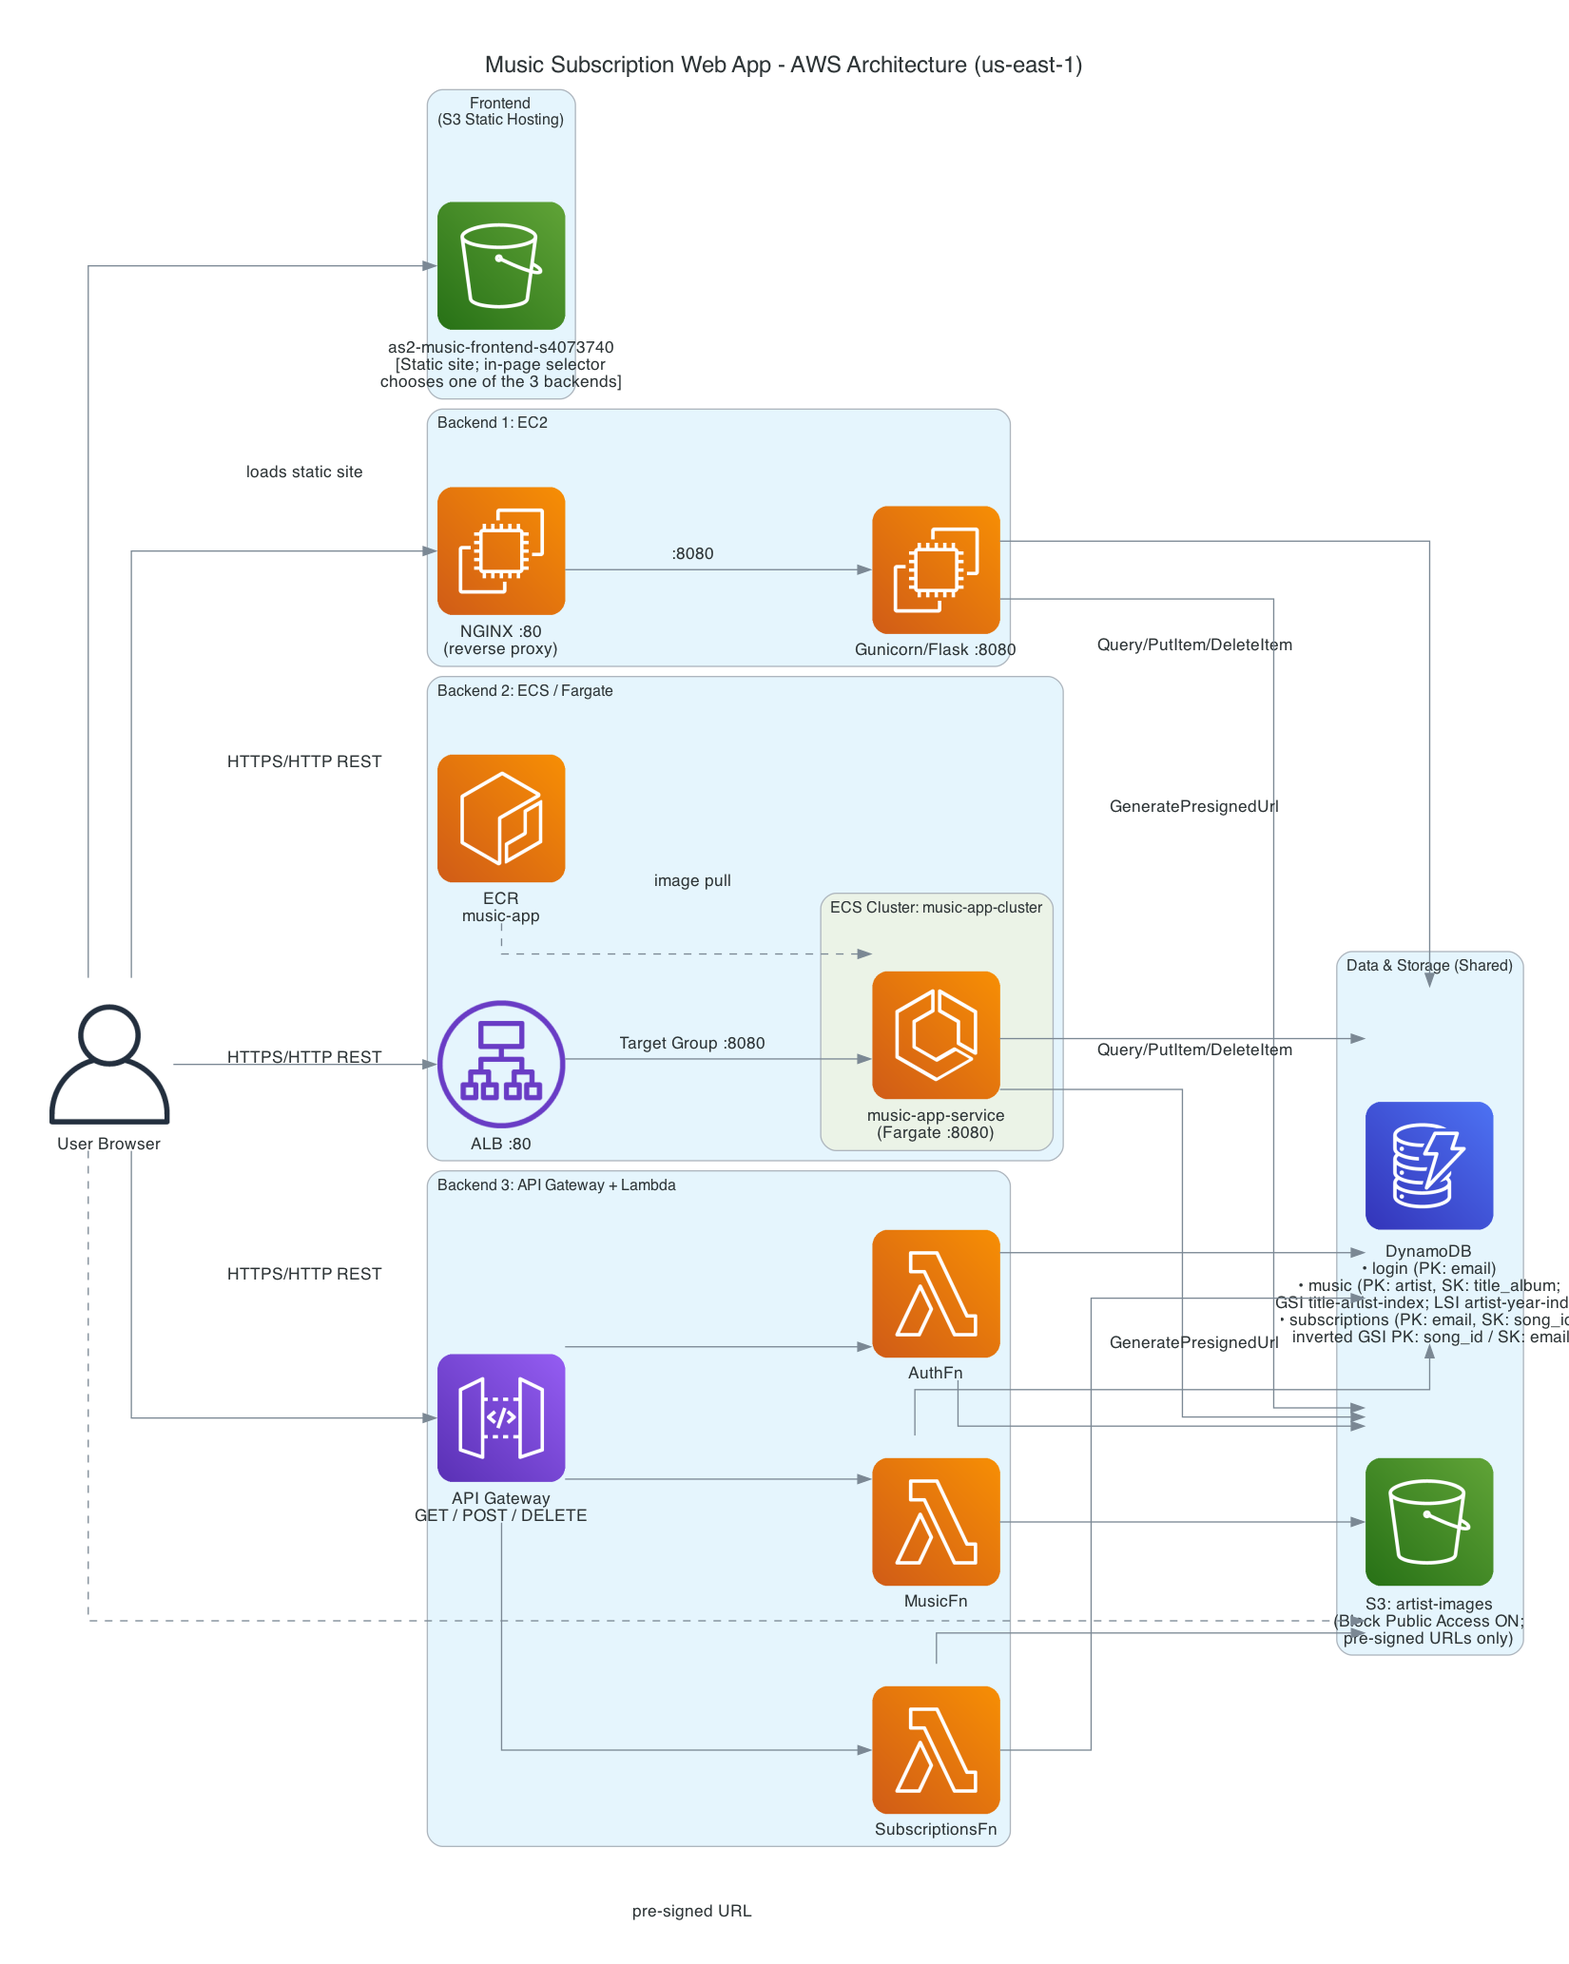
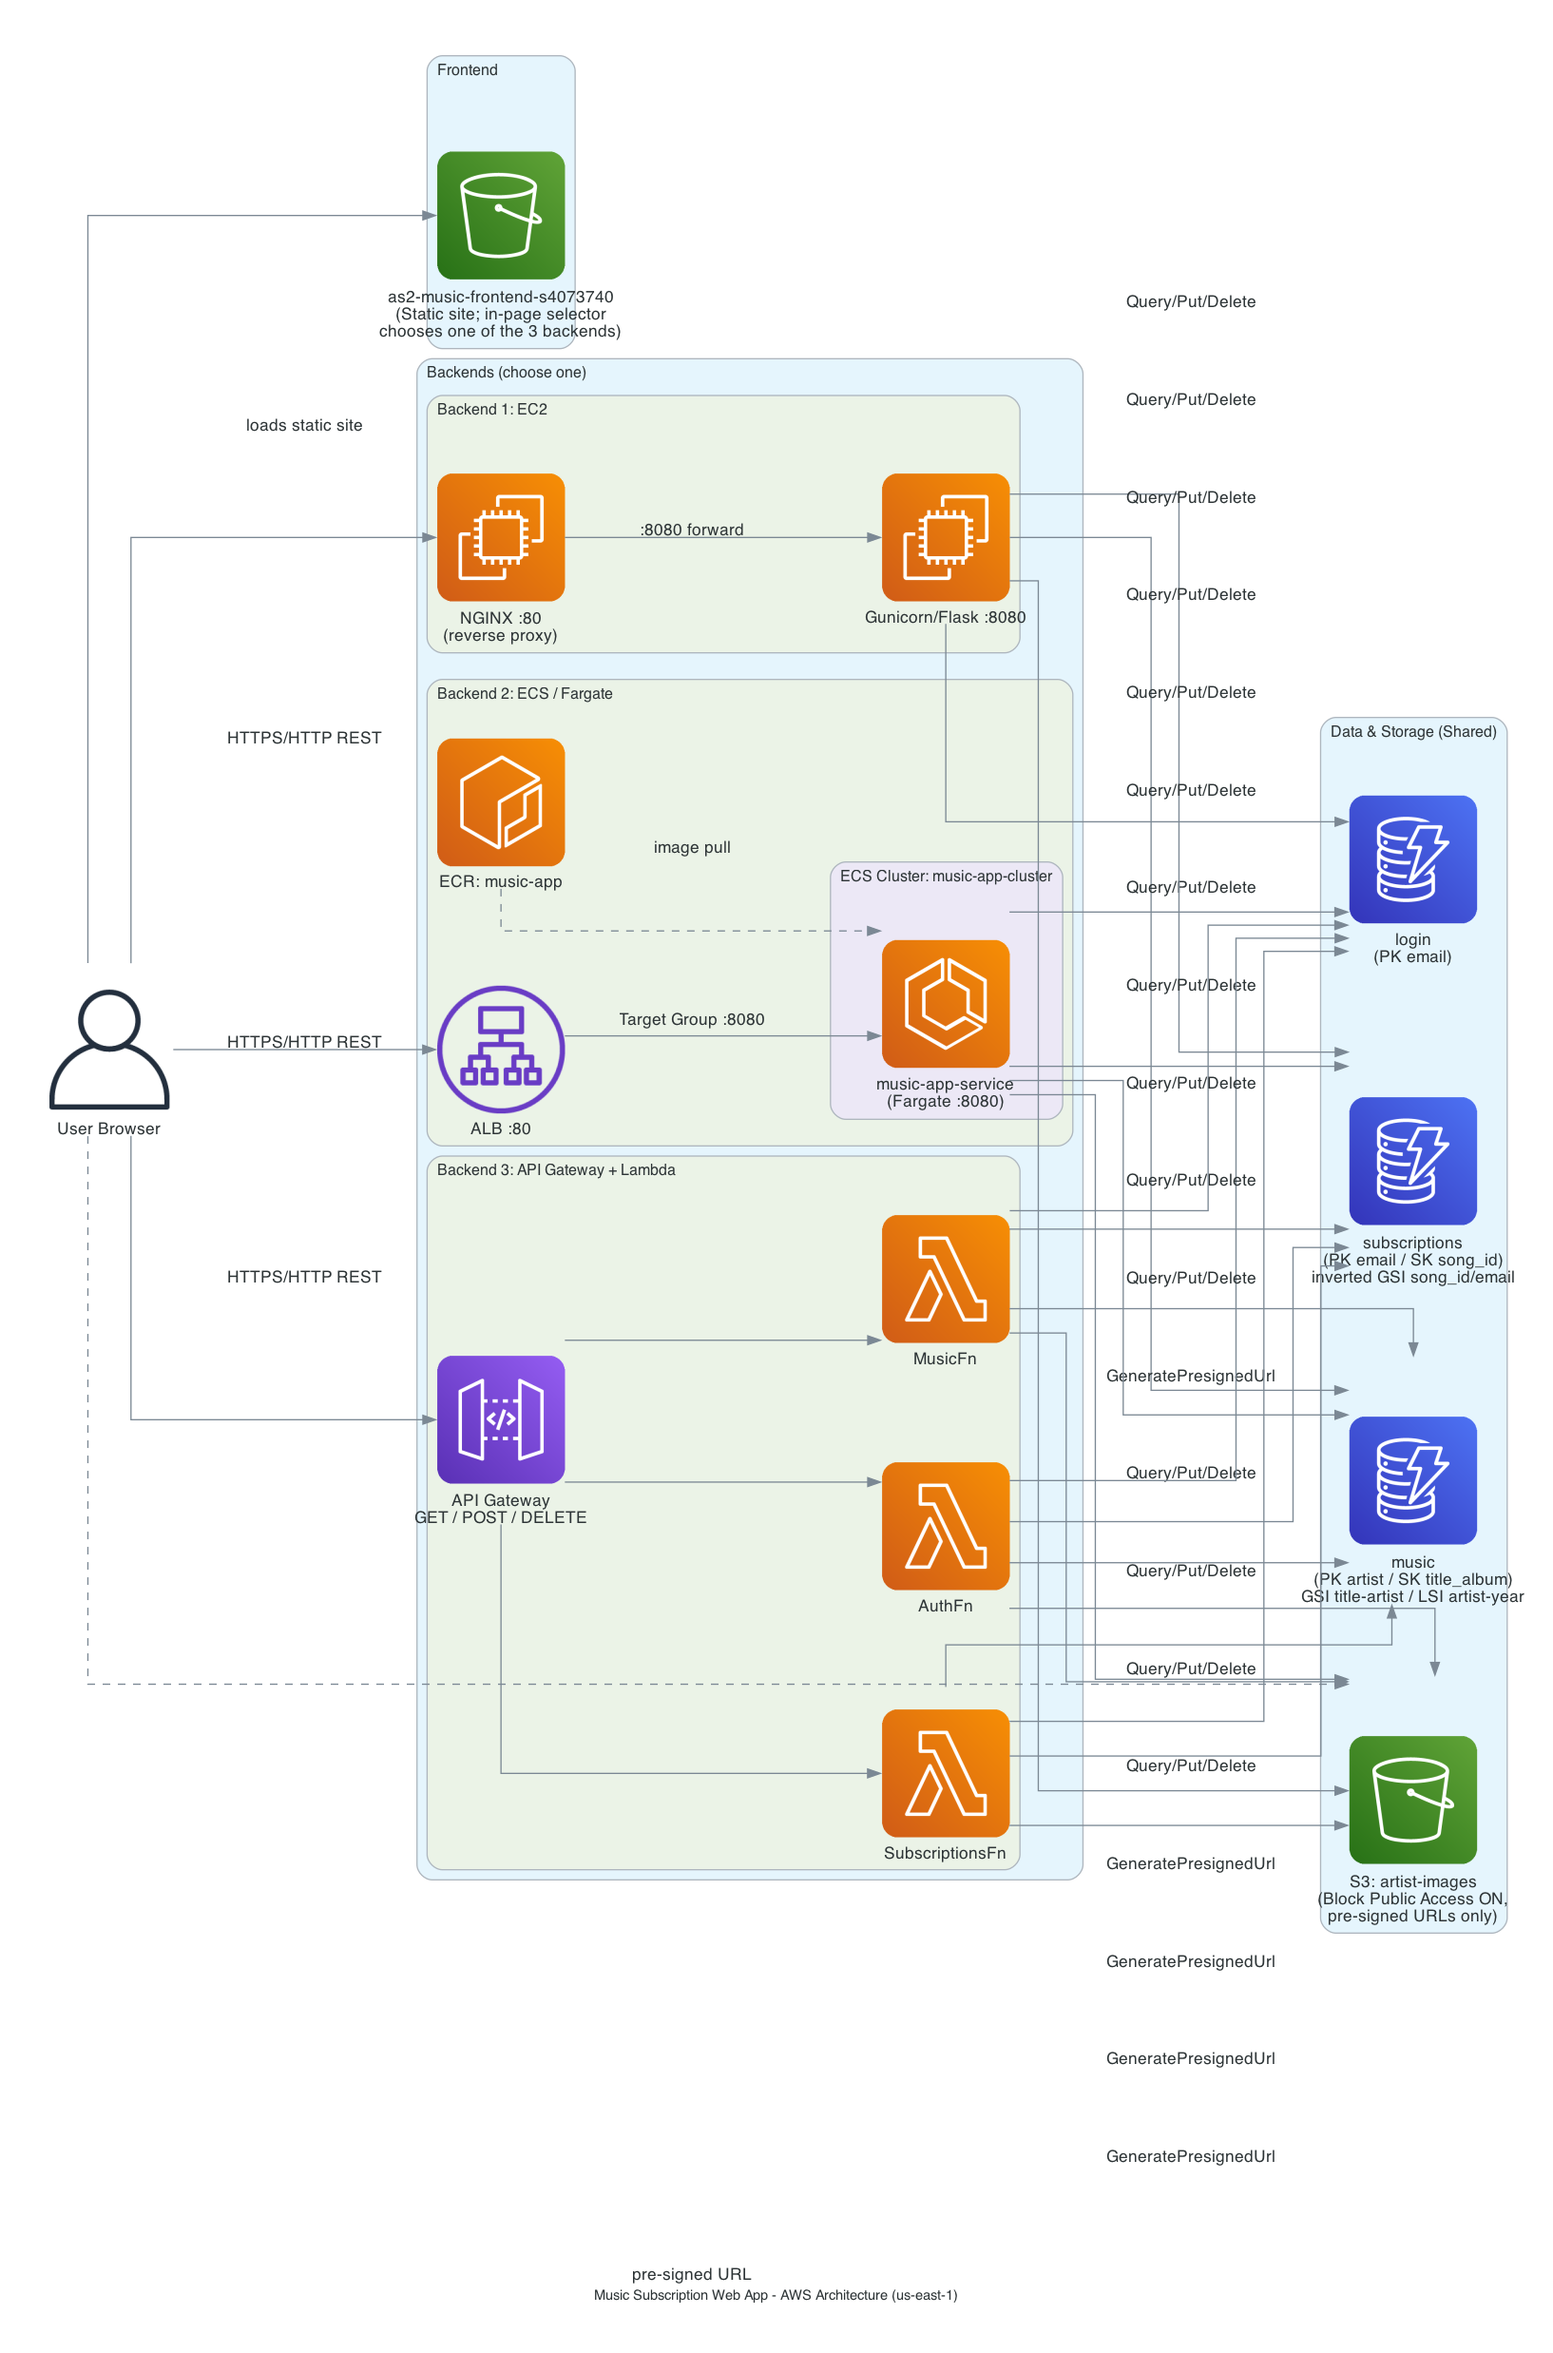
updated arch

diff --git a/architecture.py b/architecture.py
@@ -2,78 +2,77 @@
 Music Subscription Web App - AWS Architecture (us-east-1)
 
 Request Flow:
-1. User Browser loads static site from S3 (as2-music-frontend-s4073740).
-2. In-page selector picks one of three backends:
-   a. Backend 1 (EC2): Browser -> EC2 NGINX :80 -> Gunicorn/Flask :8080
-   b. Backend 2 (ECS): Browser -> ALB :80 -> Target Group :8080 -> Fargate task :8080
-      (Fargate pulls container image from ECR)
-   c. Backend 3 (Serverless): Browser -> API Gateway (REST) -> Lambda (AuthFn / MusicFn / SubscriptionsFn)
-3. All three backends read/write DynamoDB tables: login, music, subscriptions.
-4. All three backends call S3 (artist images) to generate pre-signed URLs.
-5. Browser fetches artist images directly from S3 via pre-signed URL.
-6. IAM LabRole is assumed by EC2 instance profile, ECS task role, and Lambda execution role.
+1.  User Browser loads static site from S3 (as2-music-frontend-s4073740).
+2.  In-page selector picks one of three backends:
+    a. Backend 1 (EC2):        Browser -> EC2 NGINX :80 -> Gunicorn/Flask :8080
+    b. Backend 2 (ECS/Fargate):Browser -> ALB :80 -> Target Group :8080 -> Fargate task :8080
+                                Fargate pulls container image from ECR.
+    c. Backend 3 (Serverless): Browser -> API Gateway (REST GET/POST/DELETE)
+                                       -> AuthFn / MusicFn / SubscriptionsFn (Lambda)
+3.  All three backends read/write DynamoDB tables: login, music, subscriptions.
+4.  All three backends call S3 artist-images to generate pre-signed URLs.
+5.  Browser fetches artist images directly from S3 via pre-signed URL.
+6.  IAM LabRole assumed by EC2 instance profile, ECS task role, Lambda execution role.
 """
 
 from diagrams import Diagram, Cluster, Edge
-from diagrams.aws.compute import EC2, ECS, ElasticContainerServiceService, Lambda
+from diagrams.aws.compute import EC2, ECS, Lambda, ECR
 from diagrams.aws.database import Dynamodb
 from diagrams.aws.network import ALB, APIGateway
 from diagrams.aws.storage import S3
-from diagrams.aws.compute import ECR
 from diagrams.onprem.client import User
 
 graph_attr = {
-    "fontsize": "18",
-    "label": "Music Subscription Web App - AWS Architecture (us-east-1)",
-    "labelloc": "t",
-    "rankdir": "LR",
     "splines": "ortho",
-    "pad": "0.5",
-    "nodesep": "0.6",
+    "nodesep": "0.8",
     "ranksep": "1.2",
+    "fontsize": "11",
+    "pad": "0.5",
 }
 
-with Diagram("", filename="architecture", outformat="png", show=False, graph_attr=graph_attr):
-
+with Diagram(
+    "Music Subscription Web App - AWS Architecture (us-east-1)",
+    filename="architecture",
+    outformat="png",
+    show=False,
+    direction="LR",
+    graph_attr=graph_attr,
+):
     browser = User("User Browser")
 
-    with Cluster("Frontend\n(S3 Static Hosting)"):
-        frontend = S3("as2-music-frontend-s4073740\n[Static site; in-page selector\nchooses one of the 3 backends]")
+    with Cluster("Frontend"):
+        frontend = S3("as2-music-frontend-s4073740\n(Static site; in-page selector\nchooses one of the 3 backends)")
 
-    with Cluster("Backend 1: EC2"):
-        nginx = EC2("NGINX :80\n(reverse proxy)")
-        flask = EC2("Gunicorn/Flask :8080")
-        nginx >> Edge(label=":8080") >> flask
+    with Cluster("Backends (choose one)"):
+        with Cluster("Backend 1: EC2"):
+            nginx = EC2("NGINX :80\n(reverse proxy)")
+            flask = EC2("Gunicorn/Flask :8080")
+            nginx >> Edge(label=":8080 forward") >> flask
 
-    with Cluster("Backend 2: ECS / Fargate"):
-        alb = ALB("ALB :80")
-        ecr = ECR("ECR\nmusic-app")
-        with Cluster("ECS Cluster: music-app-cluster"):
-            ecs_svc = ECS("music-app-service\n(Fargate :8080)")
-        alb >> Edge(label="Target Group :8080") >> ecs_svc
-        ecr >> Edge(style="dashed", label="image pull") >> ecs_svc
+        with Cluster("Backend 2: ECS / Fargate"):
+            alb = ALB("ALB :80")
+            ecr = ECR("ECR: music-app")
+            with Cluster("ECS Cluster: music-app-cluster"):
+                fargate = ECS("music-app-service\n(Fargate :8080)")
+            alb >> Edge(label="Target Group :8080") >> fargate
+            ecr >> Edge(style="dashed", label="image pull") >> fargate
 
-    with Cluster("Backend 3: API Gateway + Lambda"):
-        apigw = APIGateway("API Gateway\nGET / POST / DELETE")
-        fn_auth = Lambda("AuthFn")
-        fn_music = Lambda("MusicFn")
-        fn_subs = Lambda("SubscriptionsFn")
-        apigw >> fn_auth
-        apigw >> fn_music
-        apigw >> fn_subs
+        with Cluster("Backend 3: API Gateway + Lambda"):
+            apigw = APIGateway("API Gateway\nGET / POST / DELETE")
+            fn_auth  = Lambda("AuthFn")
+            fn_music = Lambda("MusicFn")
+            fn_subs  = Lambda("SubscriptionsFn")
+            apigw >> fn_auth
+            apigw >> fn_music
+            apigw >> fn_subs
 
     with Cluster("Data & Storage (Shared)"):
-        dynamo = Dynamodb(
-            "DynamoDB\n"
-            "• login (PK: email)\n"
-            "• music (PK: artist, SK: title_album;\n"
-            "  GSI title-artist-index; LSI artist-year-index)\n"
-            "• subscriptions (PK: email, SK: song_id;\n"
-            "  inverted GSI PK: song_id / SK: email)"
-        )
-        s3_images = S3("S3: artist-images\n(Block Public Access ON;\npre-signed URLs only)")
+        db_login = Dynamodb("login\n(PK email)")
+        db_music = Dynamodb("music\n(PK artist / SK title_album)\nGSI title-artist / LSI artist-year")
+        db_subs  = Dynamodb("subscriptions\n(PK email / SK song_id)\ninverted GSI song_id/email")
+        s3_img   = S3("S3: artist-images\n(Block Public Access ON,\npre-signed URLs only)")
 
-    # Browser -> frontend
+
     browser >> Edge(label="loads static site") >> frontend
 
     # Browser -> three backends
@@ -81,21 +80,17 @@ with Diagram("", filename="architecture", outformat="png", show=False, graph_att
     browser >> Edge(label="HTTPS/HTTP REST") >> alb
     browser >> Edge(label="HTTPS/HTTP REST") >> apigw
 
-    # Backends -> DynamoDB
-    flask >> Edge(label="Query/PutItem/DeleteItem") >> dynamo
-    ecs_svc >> Edge(label="Query/PutItem/DeleteItem") >> dynamo
-    fn_auth >> dynamo
-    fn_music >> dynamo
-    fn_subs >> dynamo
+    # Backends -> DynamoDB tables
+    for node in [flask, fargate, fn_auth, fn_music, fn_subs]:
+        node >> Edge(label="Query/Put/Delete") >> db_login
+        node >> Edge(label="Query/Put/Delete") >> db_music
+        node >> Edge(label="Query/Put/Delete") >> db_subs
 
-    # Backends -> S3 artist images (pre-signed URL generation)
-    flask >> Edge(label="GeneratePresignedUrl") >> s3_images
-    ecs_svc >> Edge(label="GeneratePresignedUrl") >> s3_images
-    fn_auth >> s3_images
-    fn_music >> s3_images
-    fn_subs >> s3_images
+    # Backends -> S3 artist images
+    for node in [flask, fargate, fn_auth, fn_music, fn_subs]:
+        node >> Edge(label="GeneratePresignedUrl") >> s3_img
 
     # Browser -> S3 artist images via pre-signed URL
-    browser >> Edge(style="dashed", label="pre-signed URL") >> s3_images
+    browser >> Edge(style="dashed", label="pre-signed URL") >> s3_img
 
 
